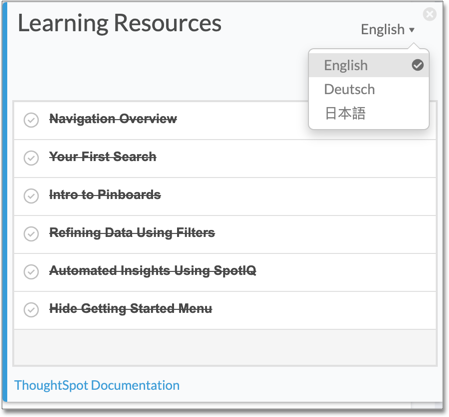
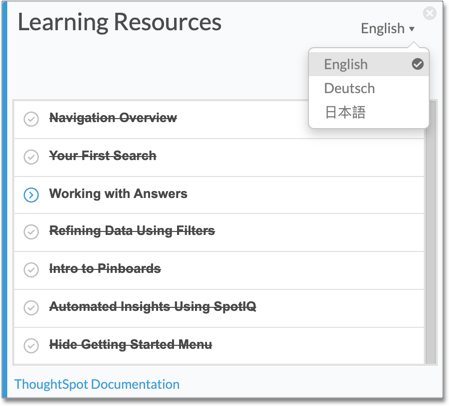
SCAL-51128 added new working with answers video, added new additions to help menu to help-center doc

diff --git a/_end-user/help-center/what-you-can-find-in-the-help-center.md b/_end-user/help-center/what-you-can-find-in-the-help-center.md
@@ -1,6 +1,6 @@
 ---
 title: [More help and support]
-last_updated: 12/20/2019
+last_updated: 12/23/2019
 summary: "There are many locations on the web where you can find help for ThoughtSpot."
 sidebar: mydoc_sidebar
 permalink: /:collection/:path.html
@@ -26,7 +26,7 @@ bar. You can see the documentation for the latest version of the product, and fo
 
 You can navigate to this documentation from inside the ThoughtSpot application
 as well. In this case, the application links directly to the documentation
-version that matches your product version.
+version that matches your product version. Click the help icon ![]({{ site.baseurl }}/images/icon-help-20px.png "The help icon"){: .inline} next to your profile, and select **Help**.
 
 {% include image.html file="gettingstarted-helptohelp.png" title="The help menu" alt="If you click on the help icon at the top right of your screen, you can click on Help and open the help menu." caption="The help menu" %}
 
@@ -66,6 +66,14 @@ The **Help** dialog box links you to the following:
 At the bottom of the **Help** dialog box, you can see a link to contact Support as
 well as the version of ThoughtSpot you are using.
 
+## Getting started
+The **Getting Started** sidebar teaches you about ThoughtSpot through a navigation overview and a series of short videos. You can show or hide this sidebar from the help menu.
+
+Refer to [Getting Started]({{ site.baseurl }}/end-user/introduction/getting-started.html).
+
+## Community
+The **Community** link in the **Help** menu takes you to the [ThoughtSpot Community](https://community.thoughtspot.com) website, where you can ask ThoughtSpot expertsquestions, share your own ideas and feedback, and meet others.
+
 ## Learn
 
 Choosing **Learn** from the **Help** menu takes you to the *Learn* center.
@@ -96,6 +104,12 @@ You can search the help directly from the search bar with the `how to` and `help
 
 The `how to` keyword takes you into the documentation only. The `help` keyword
 allows you to jump directly into a product workflow. -->
+
+## Expert requests
+**Expert requests** takes you to the Expert Requests interface, where you can view your own questions or answer other users' questions.
+
+{% include image.html file="expertrequests.png" title="Expert requests" alt="View and answer ask an expert questions by clicking on Expert Requests from the Help menu." caption="Expert requests" %}
+Refer to [Ask an Expert]({{ site.baseurl }}/end-user/search/ask-an-expert.html).
 
 ## Support contact information
 

diff --git a/_end-user/introduction/getting-started.md b/_end-user/introduction/getting-started.md
@@ -1,6 +1,6 @@
 ---
 title: [Getting Started]
-last_updated: 12/17/2019
+last_updated: 12/23/2019
 summary: "The Getting Started sidebar teaches new users to navigate and understand ThoughtSpot."
 sidebar: mydoc_sidebar
 toc: false
@@ -46,6 +46,7 @@ You can always activate **Getting Started** again. To show the Getting Started s
 Click on the **Getting Started** sidebar to expand it and see the **Learning Resources** available to you:
 * [Navigation Overview]({{ site.baseurl }}/end-user/introduction/getting-started.html#navigation-overview)
 * [Your First Search]({{ site.baseurl }}/end-user/introduction/getting-started.html#your-first-search)
+*  [Working with Answers]({{ site.baseurl }}#working-with-answers)
 * [Intro to Pinboards]({{ site.baseurl }}/end-user/introduction/getting-started.html#intro-to-pinboards)
 * [Refining Data Using Filters]({{ site.baseurl }}/end-user/introduction/getting-started.html#refining-data-using-filters)
 * [Automated Insights Using SpotIQ]({{ site.baseurl }}/end-user/introduction/getting-started.html#automated-insights-using-spotiq)
@@ -57,7 +58,7 @@ Click on the **Getting Started** sidebar to expand it and see the **Learning Res
 ## Navigation overview
 The **Navigation Overview** teaches you about the menu bar at the top of the page.
 
-{% include image.html file="getting-started-navoverview.gif" title="Navigation overview" alt="Gif of Navigation Overview: Search, Answers, Pinboards, and Help" caption="Navigation overview" %}
+{% include image.html file="getting-started.gif" title="Navigation overview" alt="Gif of Navigation Overview: Search, Answers, Pinboards, and Help" caption="Navigation overview" %}
 
 1. **Search**<br>
     Search your data in the **Search** tab.<br>
@@ -102,6 +103,14 @@ In **Your First Search**, watch a short video about how to search in ThoughtSpot
 View the [keyword reference]({{ site.baseurl }}/reference/keywords.html).
 
 Click **done** to exit **Your First Search**.
+
+{: id="working-with-answers"}
+## Working with answers
+In **Working with Answers**, watch a short video about saved search results, or **Answers**.
+
+{% include image.html file="gettingstarted-workingwithanswers.png" title="Working with answers" alt="Watch a short video about answers." caption="Working with answers" %}
+
+Click **done** to exit **Working with Answers**.
 
 {: id="intro-to-pinboards"}
 ## Intro to pinboards
